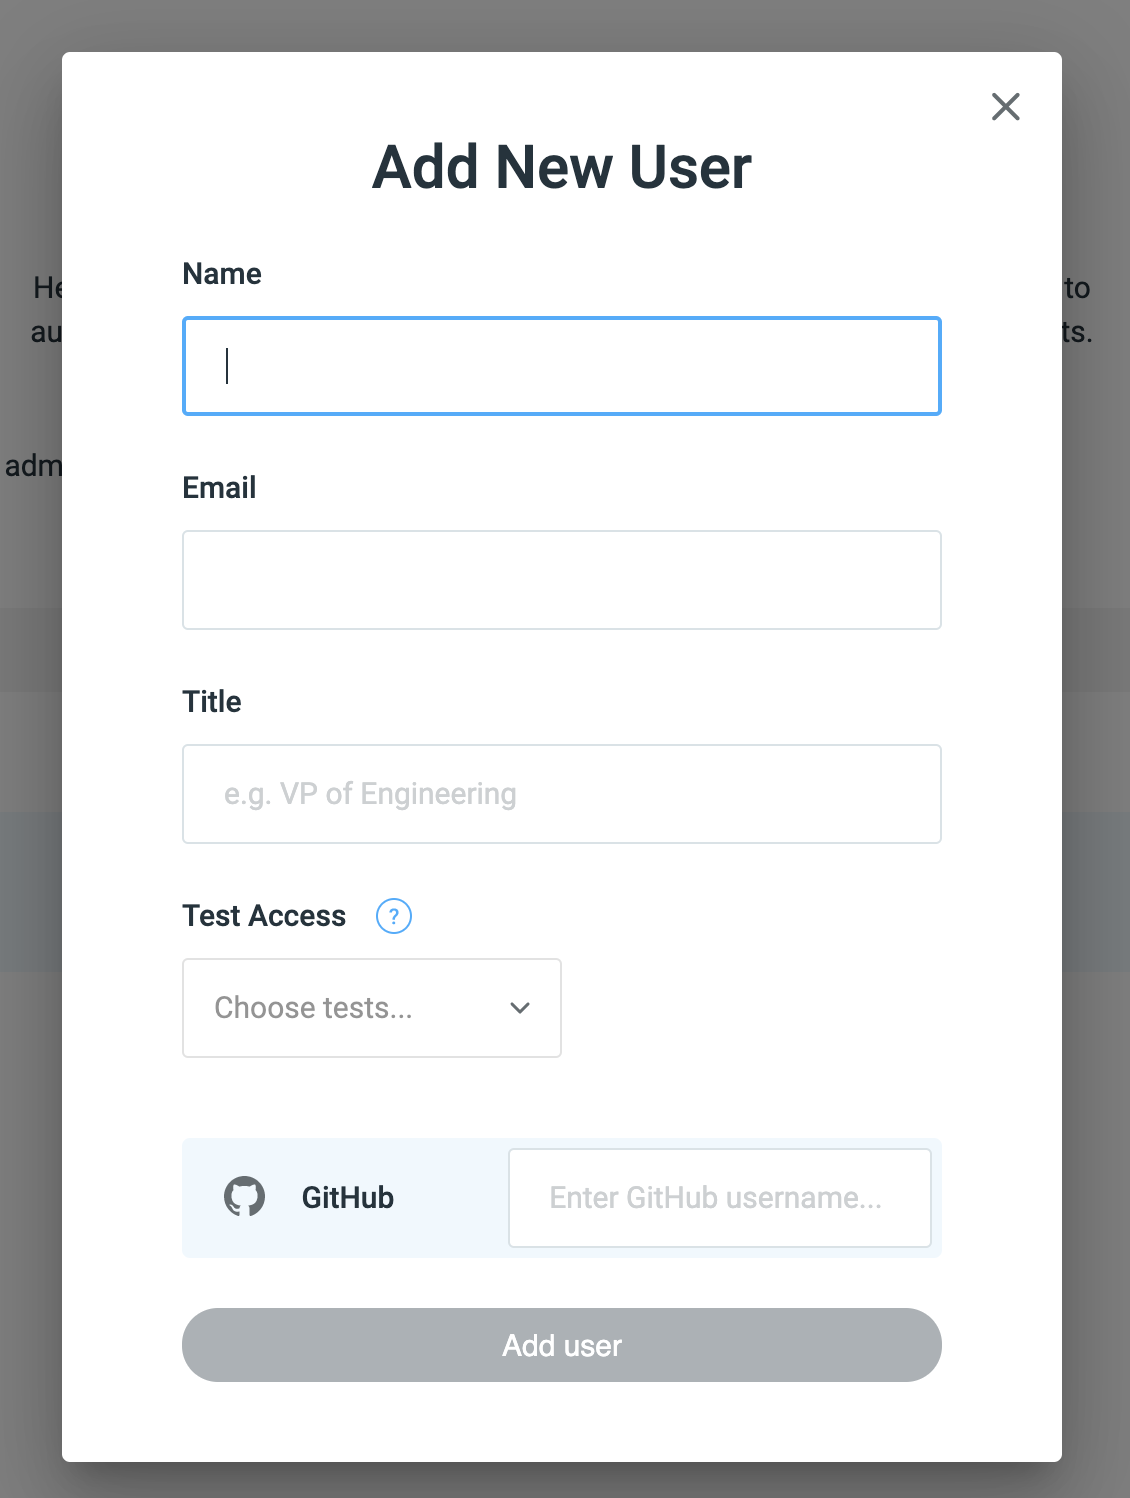
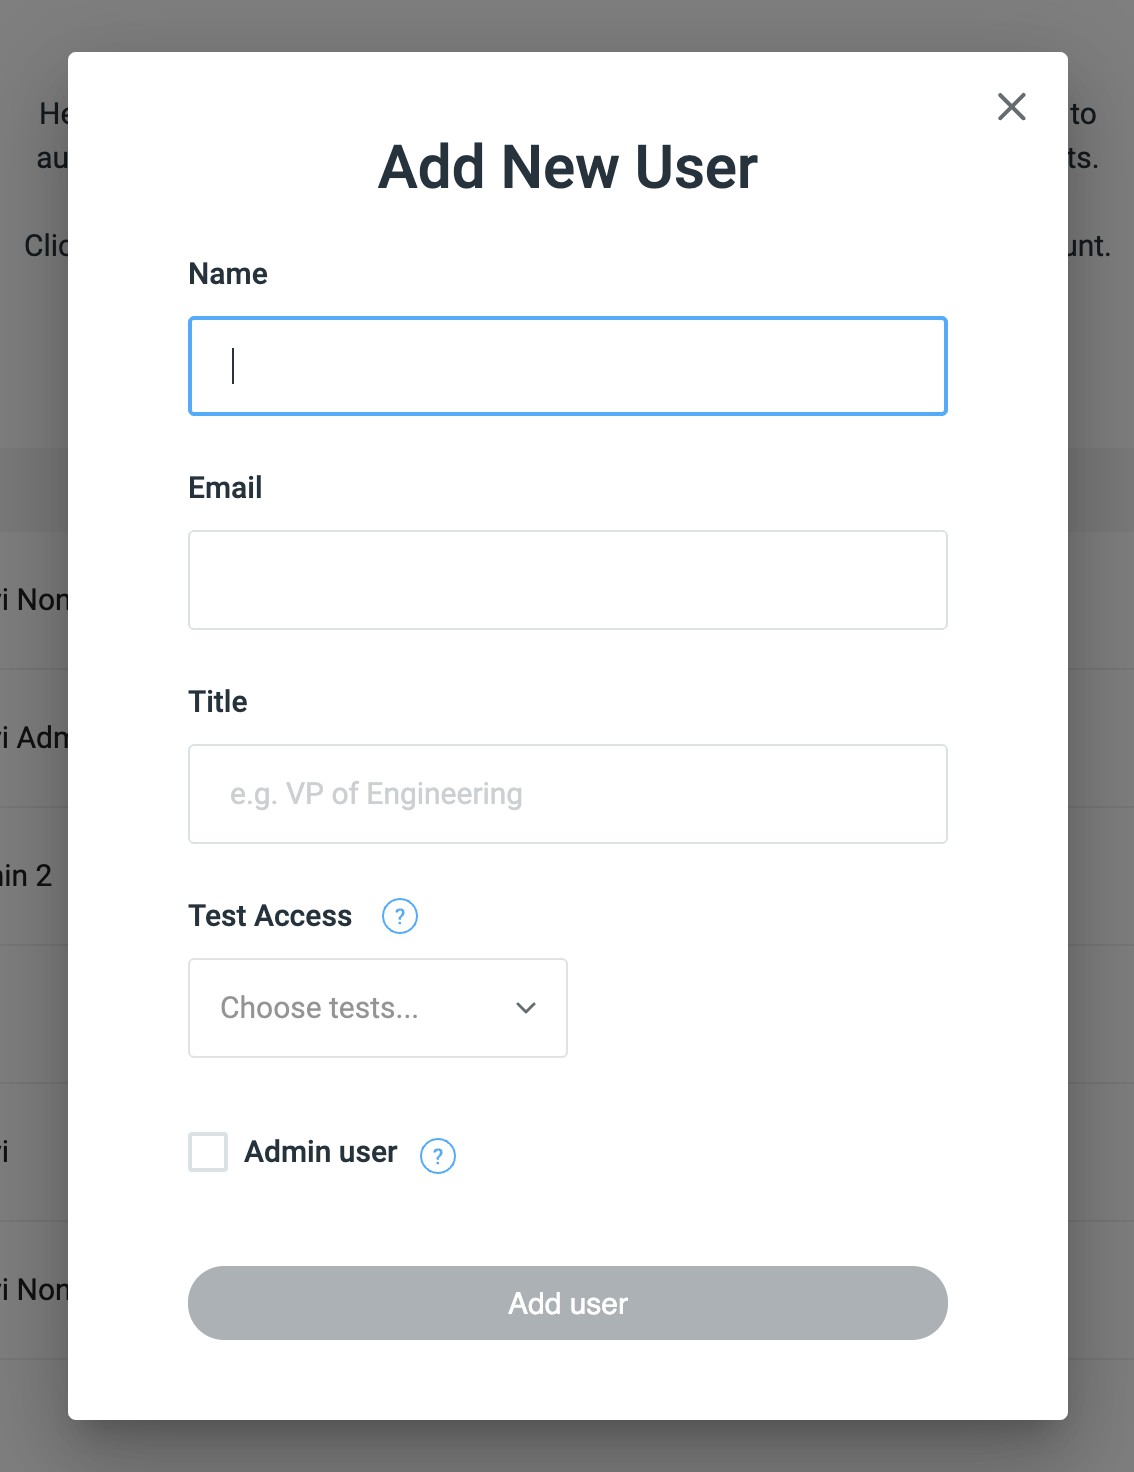
Updated users doc

diff --git a/docs/users.md b/docs/users.md
@@ -32,9 +32,7 @@ You can then select which tests you want to give this user access to.
 For each test you select, this user will be able to send tests to candidates, see all results (including access to each candidate's GitHub repo), access to the test's `GitHub` template repos (for custom tests), and be notified when each candidate completes the test.
 <br> If you don't select any tests, then the user will be granted access to all tests.
 
-You can also add the user's `GitHub` username. If you are adding a non-technical user you can leave this blank. If you are
-adding a technical user (developer, tech lead, etc), then you can also leave this blank and the user can add it later when
-they sign in for the first time.
+You can also set the user up as an admin user by checking the `Admin user` checkbox.
 
 You can now click the `Add user` to finish adding the user. The user will then be sent a welcome email containing a link
 to sign in for the first time.
@@ -42,5 +40,6 @@ to sign in for the first time.
  ### Admin Users
  The person who initially creates the account for your organization on CodeScreen is made an admin user by default.
 
- When a new user is added, they will be created by default as a non-admin user. If you would like to change a non-admin user
- to an admin, please message us on our live chat, or via <a href="mailto:hello@codescreen.dev">email</a>, with the name of the user and we will update them on our side.
+ Admin users can edit email templates, add other users, access API keys, and access/update your account's billing details.
+
+ 
